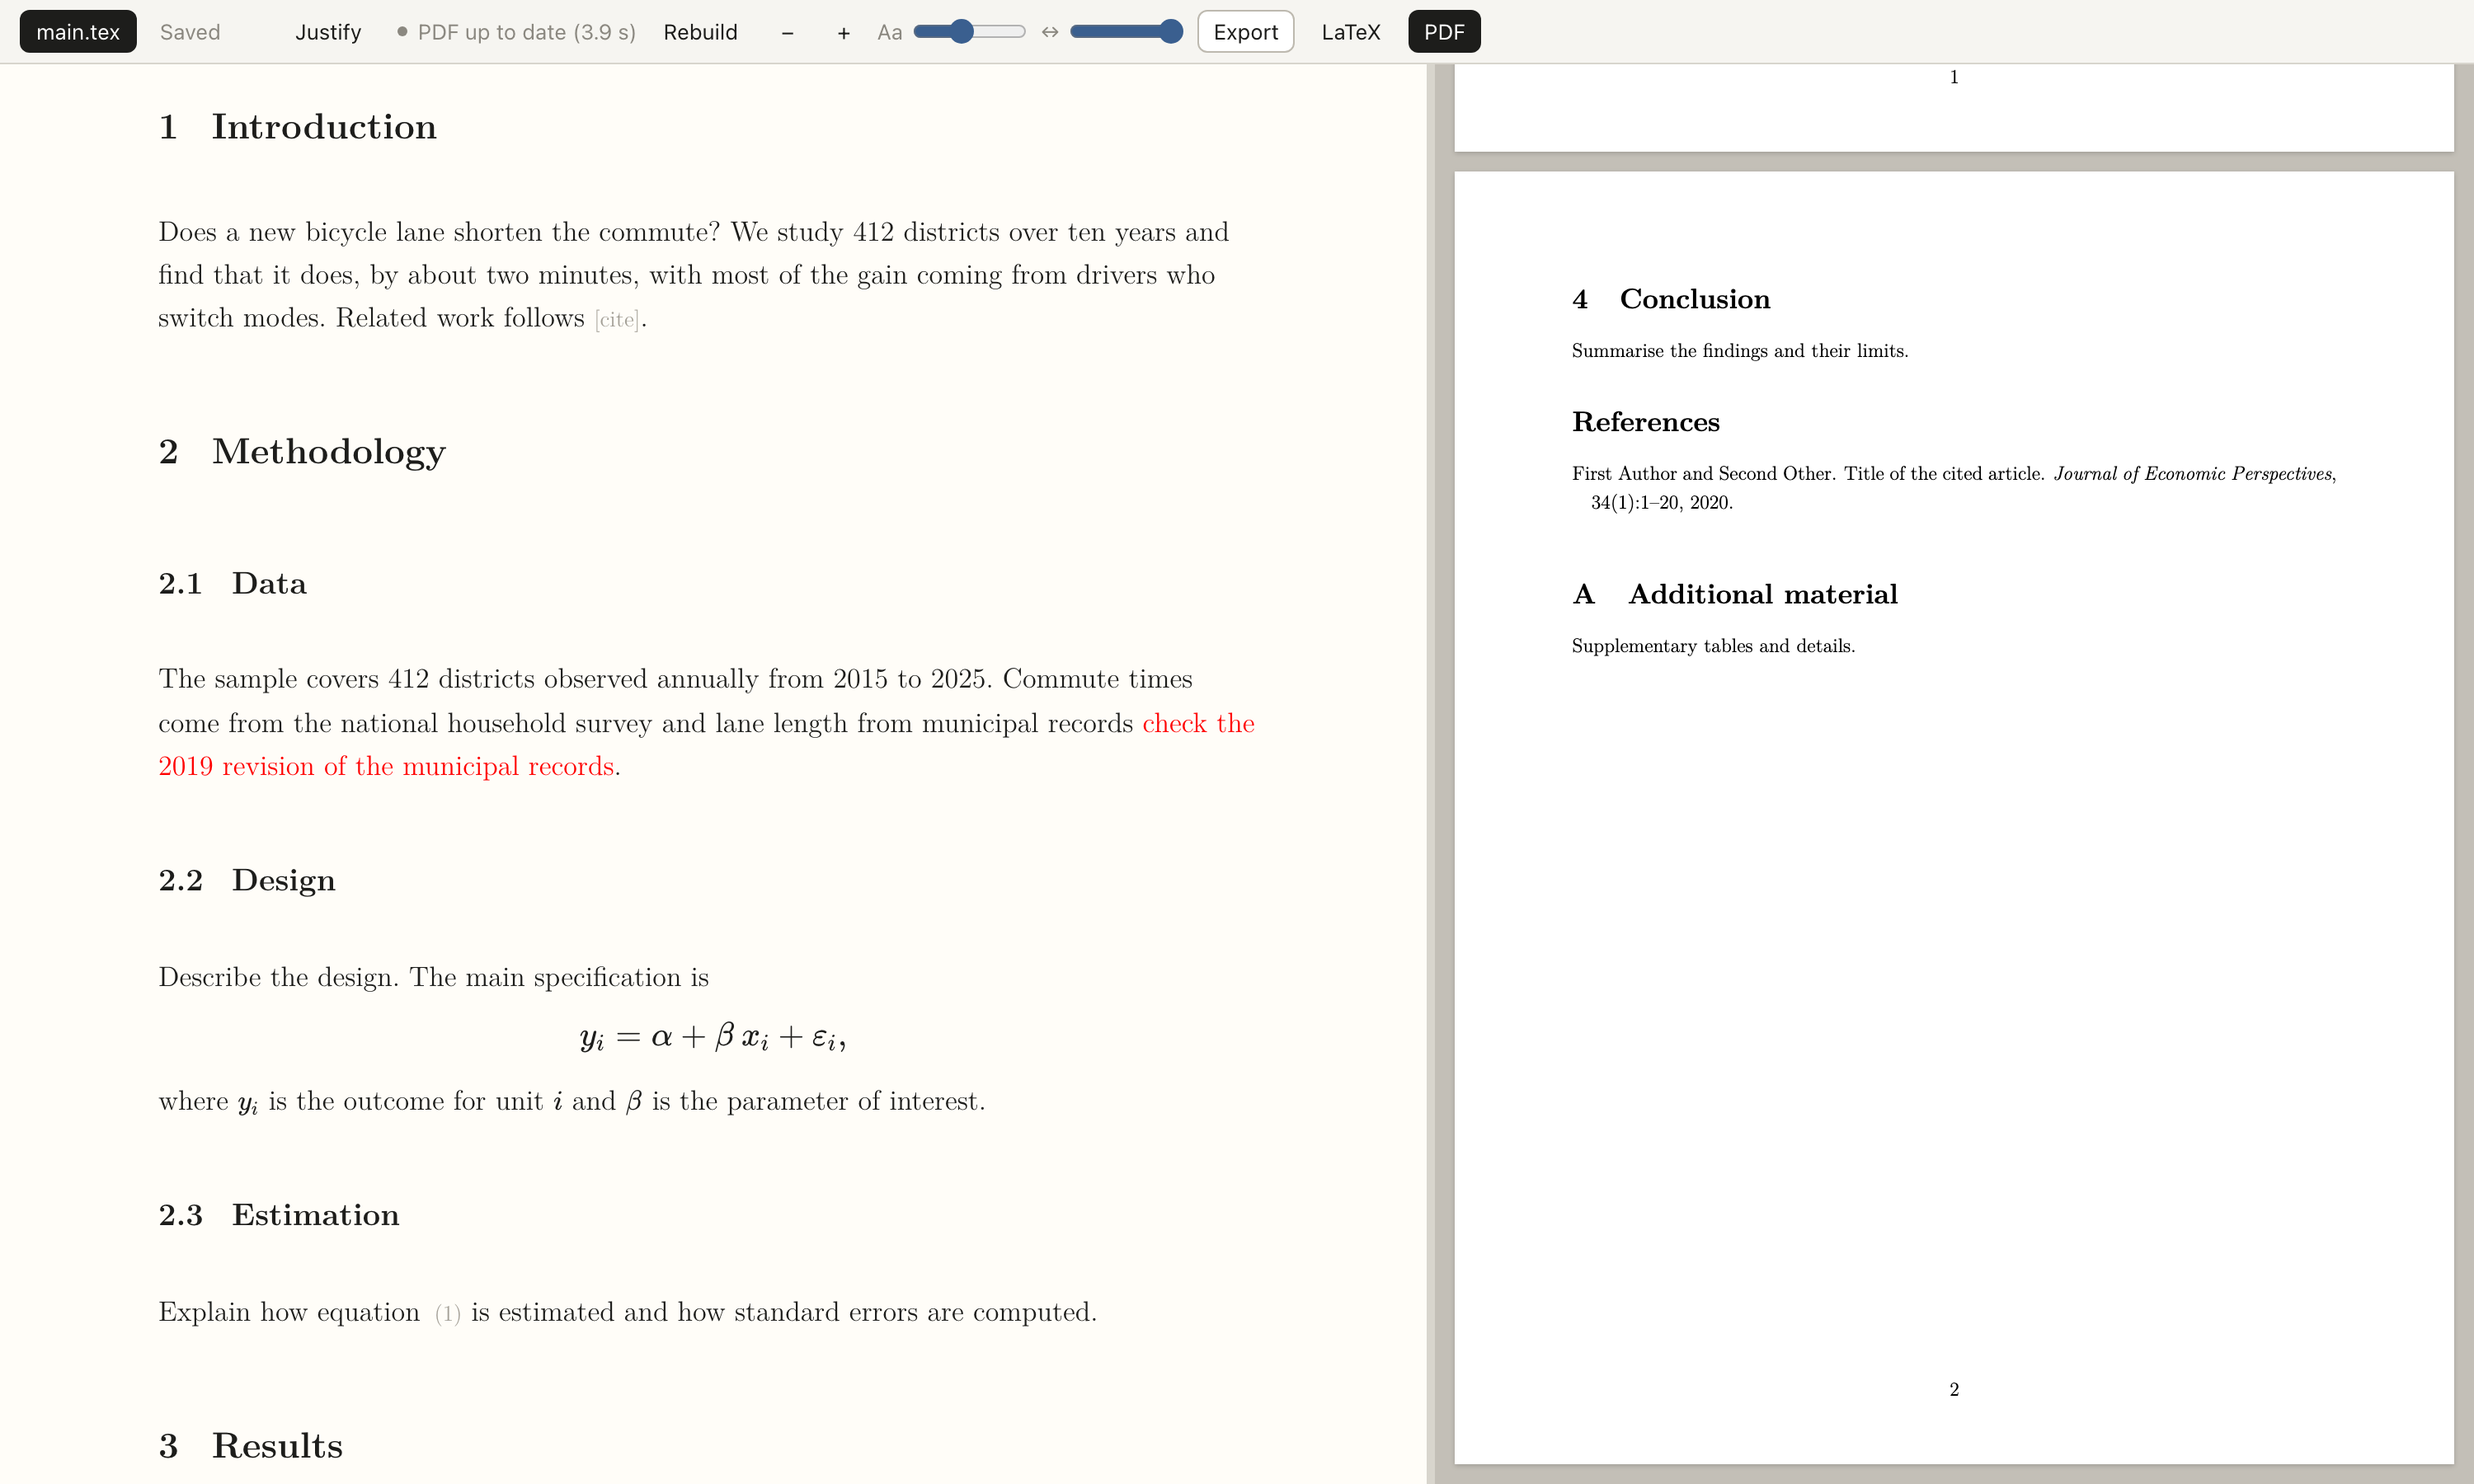
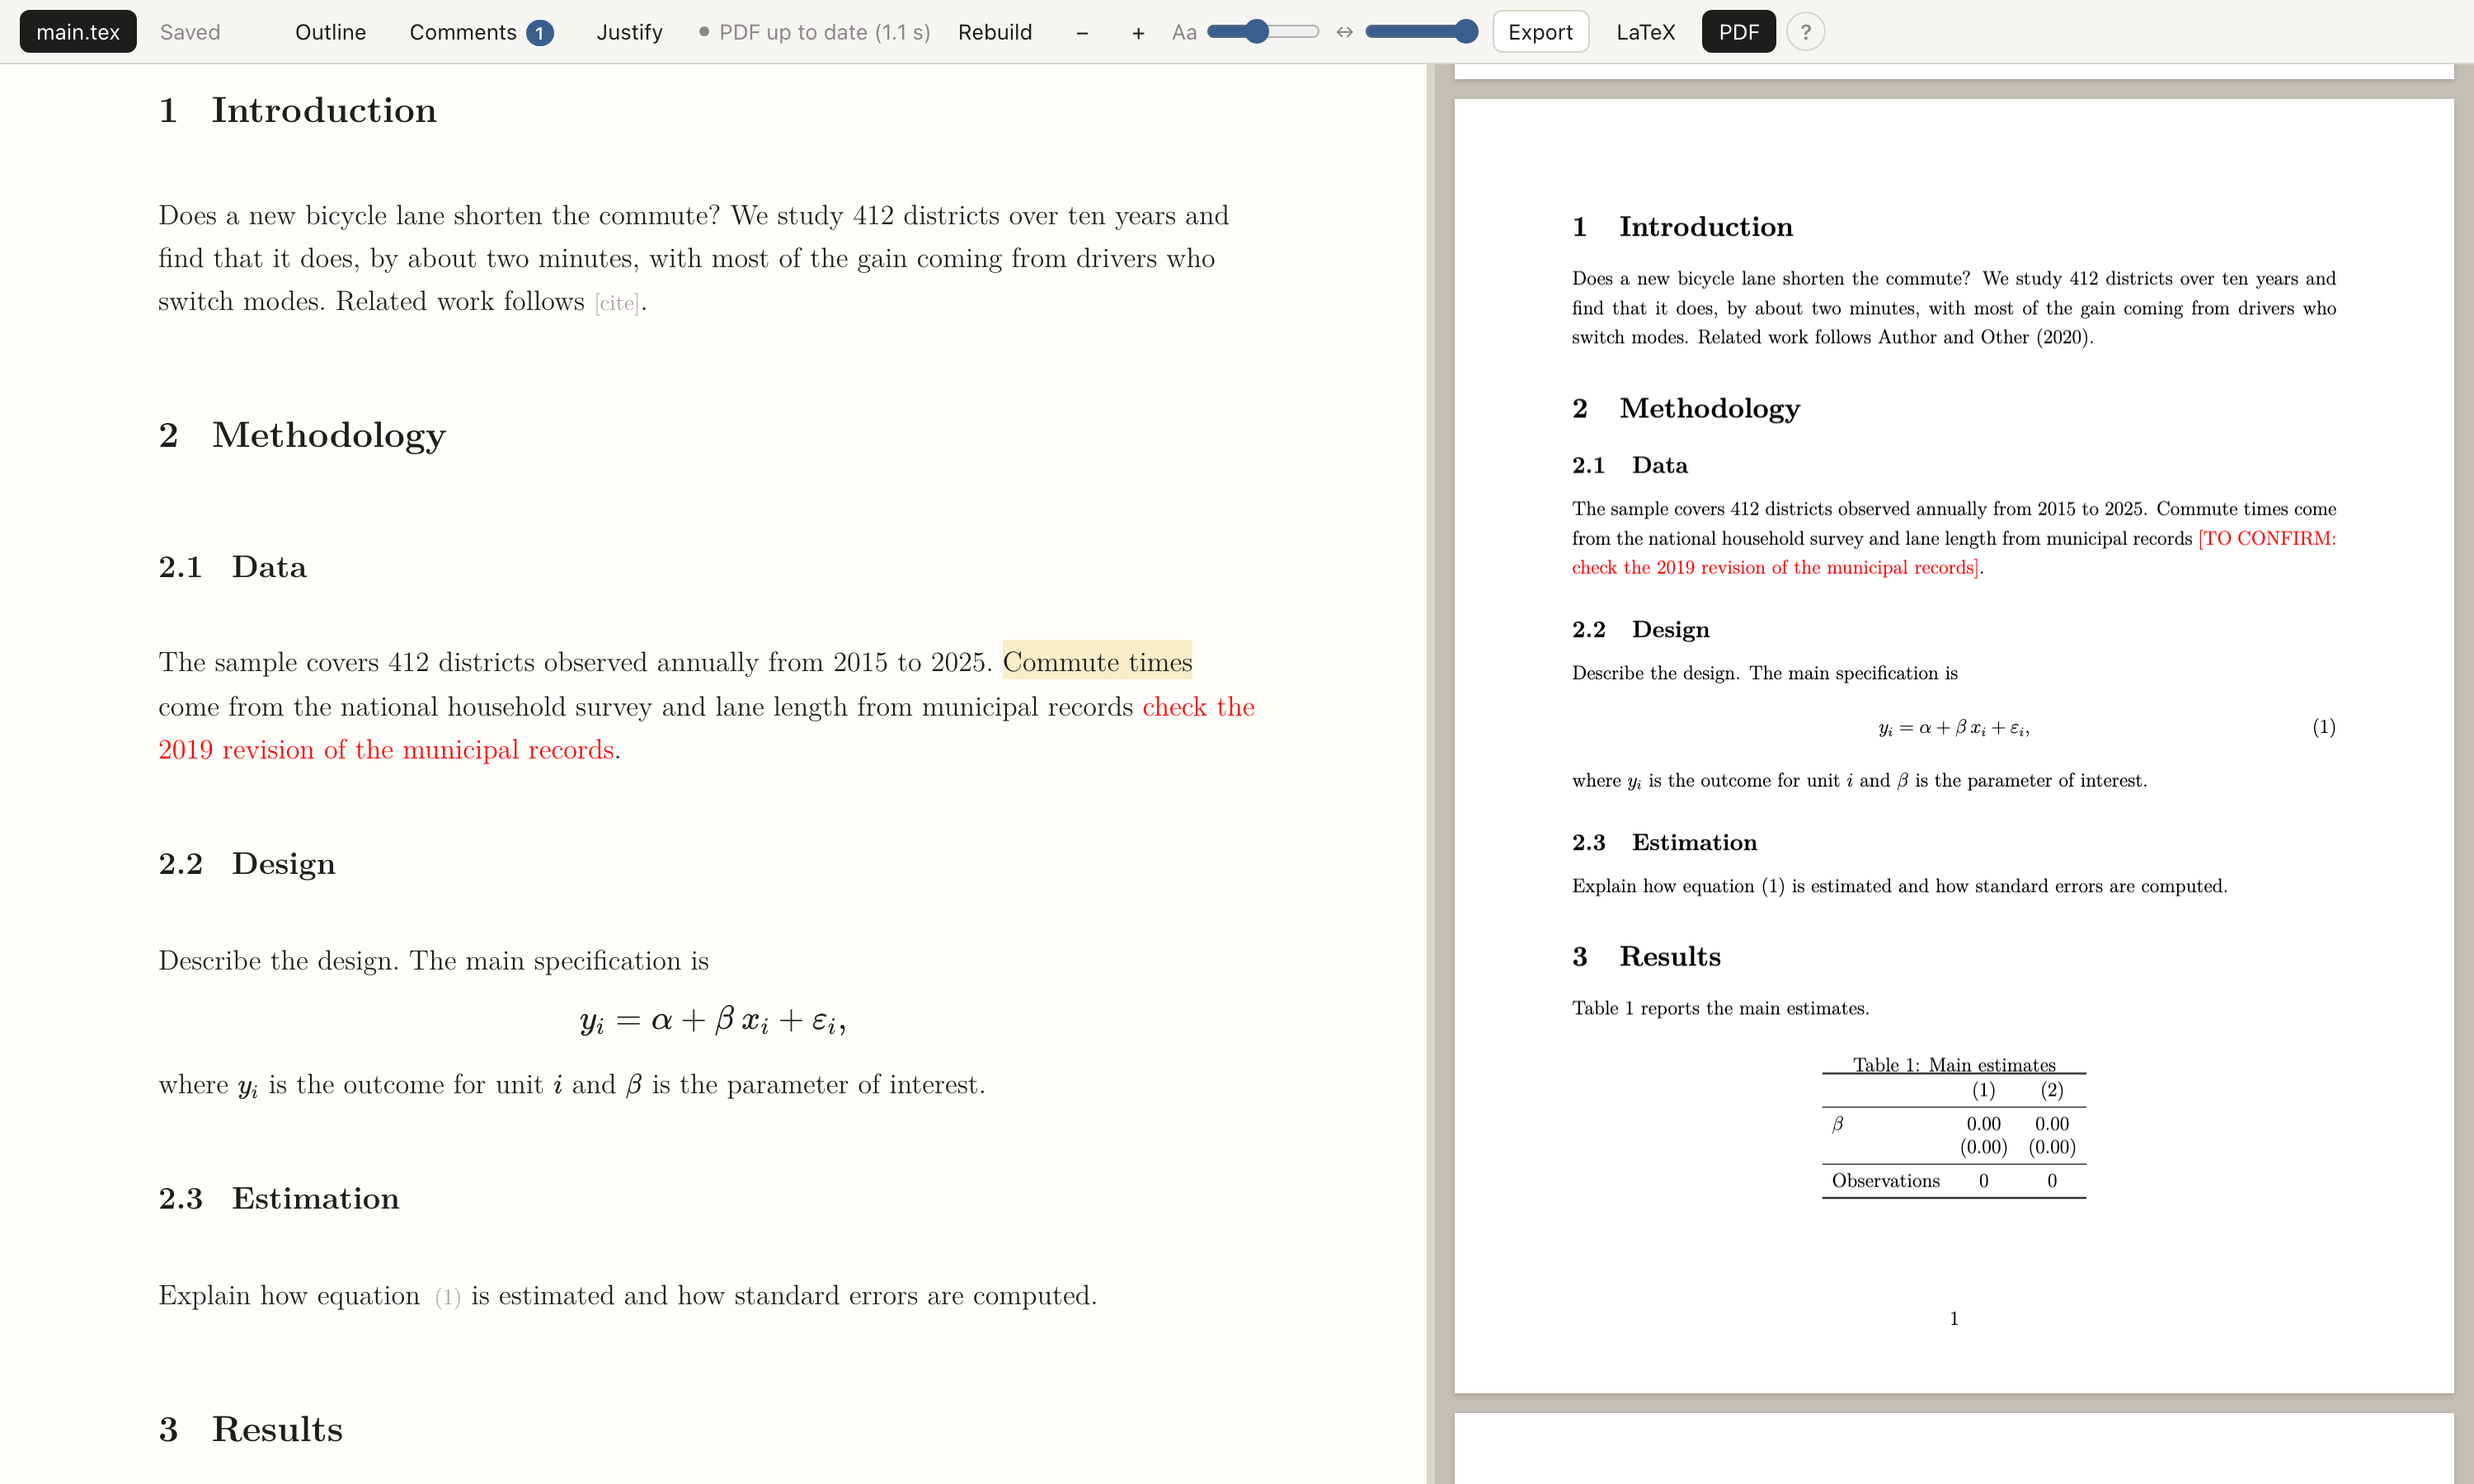
Docs: README, site, skill, SPEC and HANDOFF for the polish round; refresh screenshot

diff --git a/docs/index.html b/docs/index.html
@@ -56,7 +56,9 @@ footer{margin-top:3rem;font-size:.8rem;color:var(--muted);border-top:1px solid v
 <li>Surgical saves: opening and saving without changes writes zero bytes; changing one word changes one line.</li>
 <li>Live merging of external edits. If you both touch the same characters, the file on disk wins and your replaced text is shown so you can re-insert it.</li>
 <li>Background PDF with tectonic, errors explained in plain words, last good PDF kept on screen.</li>
-<li>Selection, comments and suggestions written to <code>.ltxed/</code> next to the paper, where Claude Code reads them.</li>
+<li>Selection, comments and suggestions written to <code>.ltxed/</code> next to the paper, where Claude Code reads them. Lines that change on disk flash briefly, so you see what Claude just edited.</li>
+<li>Outline with word counts per section, a comments list with an open-comment badge, find and replace (<code>Cmd+F</code>), and <code>Cmd+J</code> to show the cursor&rsquo;s place in the PDF (double-click the PDF to go back).</li>
+<li>A &laquo;&nbsp;?&nbsp;&raquo; button in the toolbar explains every button, key and colour.</li>
 <li>Multi-file papers, appendix numbering across files. Everything runs on <code>127.0.0.1</code>.</li>
 </ul>
 

diff --git a/HANDOFF.md b/HANDOFF.md
@@ -25,7 +25,7 @@ interfaces). Scope per Daniel: personal tool, this Mac only, don't over-engineer
 - `ltx new path/to/paper.tex` (or a dir → `main.tex`) + `references.bib`; `--open` to open.
 - Frontend rebuild after editing `web/`: `cd web && npm run build` (writes `src/ltx/static/`).
   Typecheck: `npx tsc --noEmit`.
-- Tests: `uv run pytest tests -q` (14 tests, ~27 s; headless Chromium via Playwright; they
+- Tests: `uv run pytest tests -q` (45 tests, ~1–2 min; headless Chromium via Playwright; they
   copy the fixtures into pytest tmp dirs, never touching the originals).
 
 ## Test status (all pass)
@@ -41,6 +41,16 @@ interfaces). Scope per Daniel: personal tool, this Mac only, don't over-engineer
   fixing it clears the strip.
 - `ltx open` launches server + browser (via $BROWSER) and reuses a running server;
   `ltx new` output compiles with tectonic.
+
+## Polish round (2026-10-26)
+- Perf: pdf.js and KaTeX split into lazy chunks (`static/chunks/`, content-hashed; app.js 1020 → 349 KB);
+  paper decorations map through prose-only edits instead of a full rebuild (`decorations/paper.ts`
+  `proseOnly`); file start numbering cached per renumber pass, not per keystroke; replaced pdf.js
+  documents destroyed (one worker, not one per rebuild); server line diff trims unchanged lines first.
+- Features: selection sidecar (`selection.ts`, was a stub), Outline + word counts and Comments list
+  (`panels.ts`, `numbering.ts` `outline()`), outside-edit flash (`flash.ts`), SynCTeX Cmd+J and PDF
+  double-click (`src/ltx/synctex.py`, `/api/synctex`), styled Cmd+F panel, « ? » help (`help.ts`: one
+  `HELP` list; a test checks it names every toolbar control).
 
 ## Known issues / limits
 - On launch the server compiles and overwrites `<docroot>/main.pdf` with a fresh build

diff --git a/SPEC.md b/SPEC.md
@@ -587,7 +587,10 @@ server sends `external` (to all clients) before `save_conflict`. After a success
 - `build/`: tectonic output. On success the PDF is copied to `<docroot>/<stem>.pdf`.
 - `server.log`: the detached server's output.
 
-HTTP: `GET /` app, `GET /static/*` assets, `GET /pdf` last good PDF, `GET /api/state`.
+HTTP: `GET /` app, `GET /static/*` assets, `GET /pdf` last good PDF, `GET /api/state`,
+`GET /api/synctex?file=&line=` → `{page, y, y2, line}` and `?page=&x=&y=` → `{file, line}`
+(additive, 2026-10-26; positions in PDF points from the page's top-left, from
+`.ltxed/build/<stem>.synctex.gz`; 404 when there is no match).
 
 ### 13.4 Frontend modules (`web/`) and ownership
 
@@ -598,4 +601,5 @@ HTTP: `GET /` app, `GET /static/*` assets, `GET /pdf` last good PDF, `GET /api/s
 | `editor.ts` (`createEditor({parent, path, text, decorations})`), `decorations/**` (`index.ts` exports `decorationExtensions(ctx)`, `ctx = {path, getIndex(), onIndex(cb)}`), `paper.css`, new `toolbar.ts`, `input.ts` | **phase 2** |
 | `selection.ts`, `comments.ts`, `errors.ts` ("Ask Claude to fix"), `pdf.ts` SynCTeX hooks + `src/ltx/synctex.py`, `skill/ltx.md` | **phase 3** (server handlers for selection/comments/compile_errors already exist) |
 
-Build: `cd web && npm run build` writes `src/ltx/static/app.js`; rebuild after any web change.
+Build: `cd web && npm run build` writes `src/ltx/static/app.js` plus `static/chunks/` (pdf.js and
+KaTeX, loaded on first use); rebuild after any web change.

diff --git a/README.md b/README.md
@@ -27,7 +27,12 @@ Claude keeps working in the terminal, and the PDF rebuilds in the background.
 - Background PDF with tectonic, shown beside the source; errors are explained in plain
   words and the last good PDF stays on screen.
 - Selection, comments and suggestions are written to `.ltxed/` next to your paper, where
-  Claude Code reads them.
+  Claude Code reads them. Lines that change on disk flash briefly, so you see what Claude
+  just edited.
+- Outline with word counts per section, a comments list with an open-comment badge, find
+  and replace (`Cmd+F`), and `Cmd+J` to show the cursor's place in the PDF (double-click the
+  PDF to go back).
+- A « ? » button in the toolbar explains every button, key and colour.
 - Multi-file papers (`\input`, `\include`), appendix numbering across files.
 - Everything runs on `127.0.0.1`; there is no account, cloud or telemetry.
 

diff --git a/src/ltx/skill/SKILL.md b/src/ltx/skill/SKILL.md
@@ -14,7 +14,8 @@ side of the protocol is plain files in `<docroot>/.ltxed/` (next to the root `.t
 - "this paragraph", "this table", "the selected sentence", "here": read
   `.ltxed/selection.json`: `{file, line_from, line_to, from, to, text, paragraph_text,
   enclosing:{kind,label,caption}, ts}`. Lines are 1-based, `file` is relative to the docroot.
-  Check `ts` is recent; if it is stale or missing, ask which text is meant.
+  Check `ts` is recent; if it is stale or missing, ask which text is meant. An empty `text`
+  means the user only placed the cursor: "this paragraph" is then `paragraph_text`.
 - "fix the build" / "why does it not compile": read `.ltxed/compile_errors.json`:
   `{state:"ok"|"error", errors:[{file,line,plain,...}]}`. `plain` is a one-line explanation.
 - Comments: `.ltxed/comments.json`, see below.
